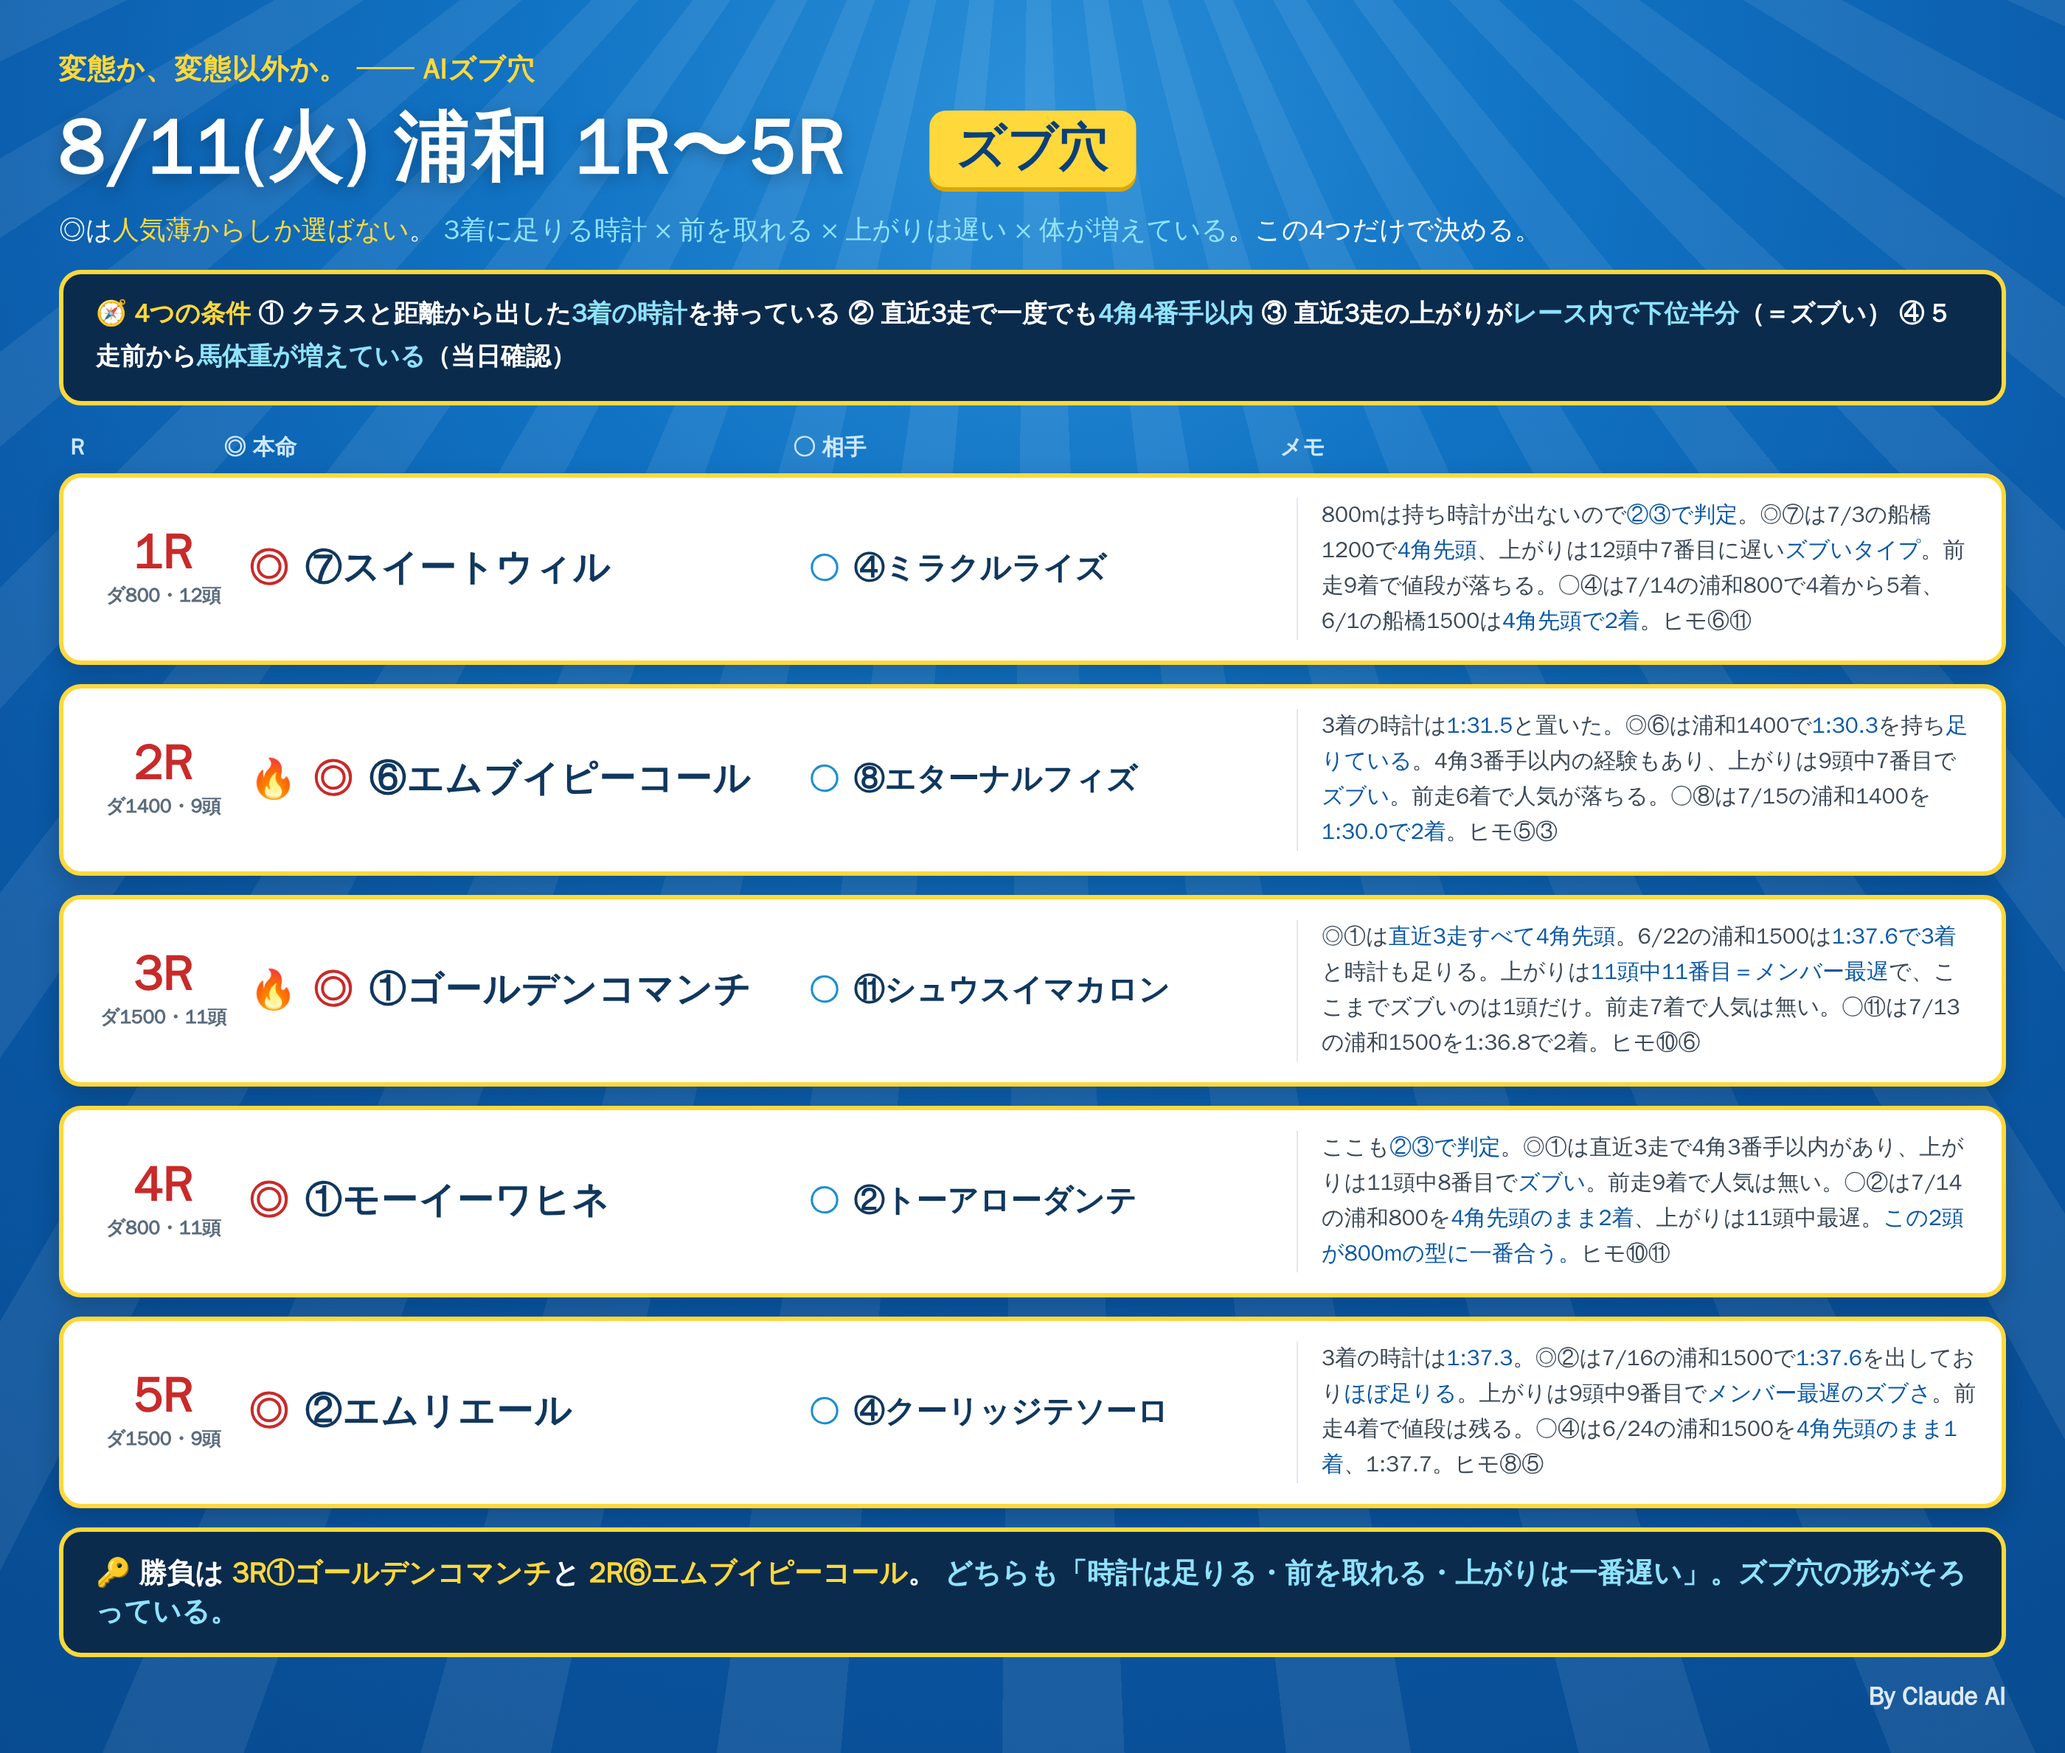
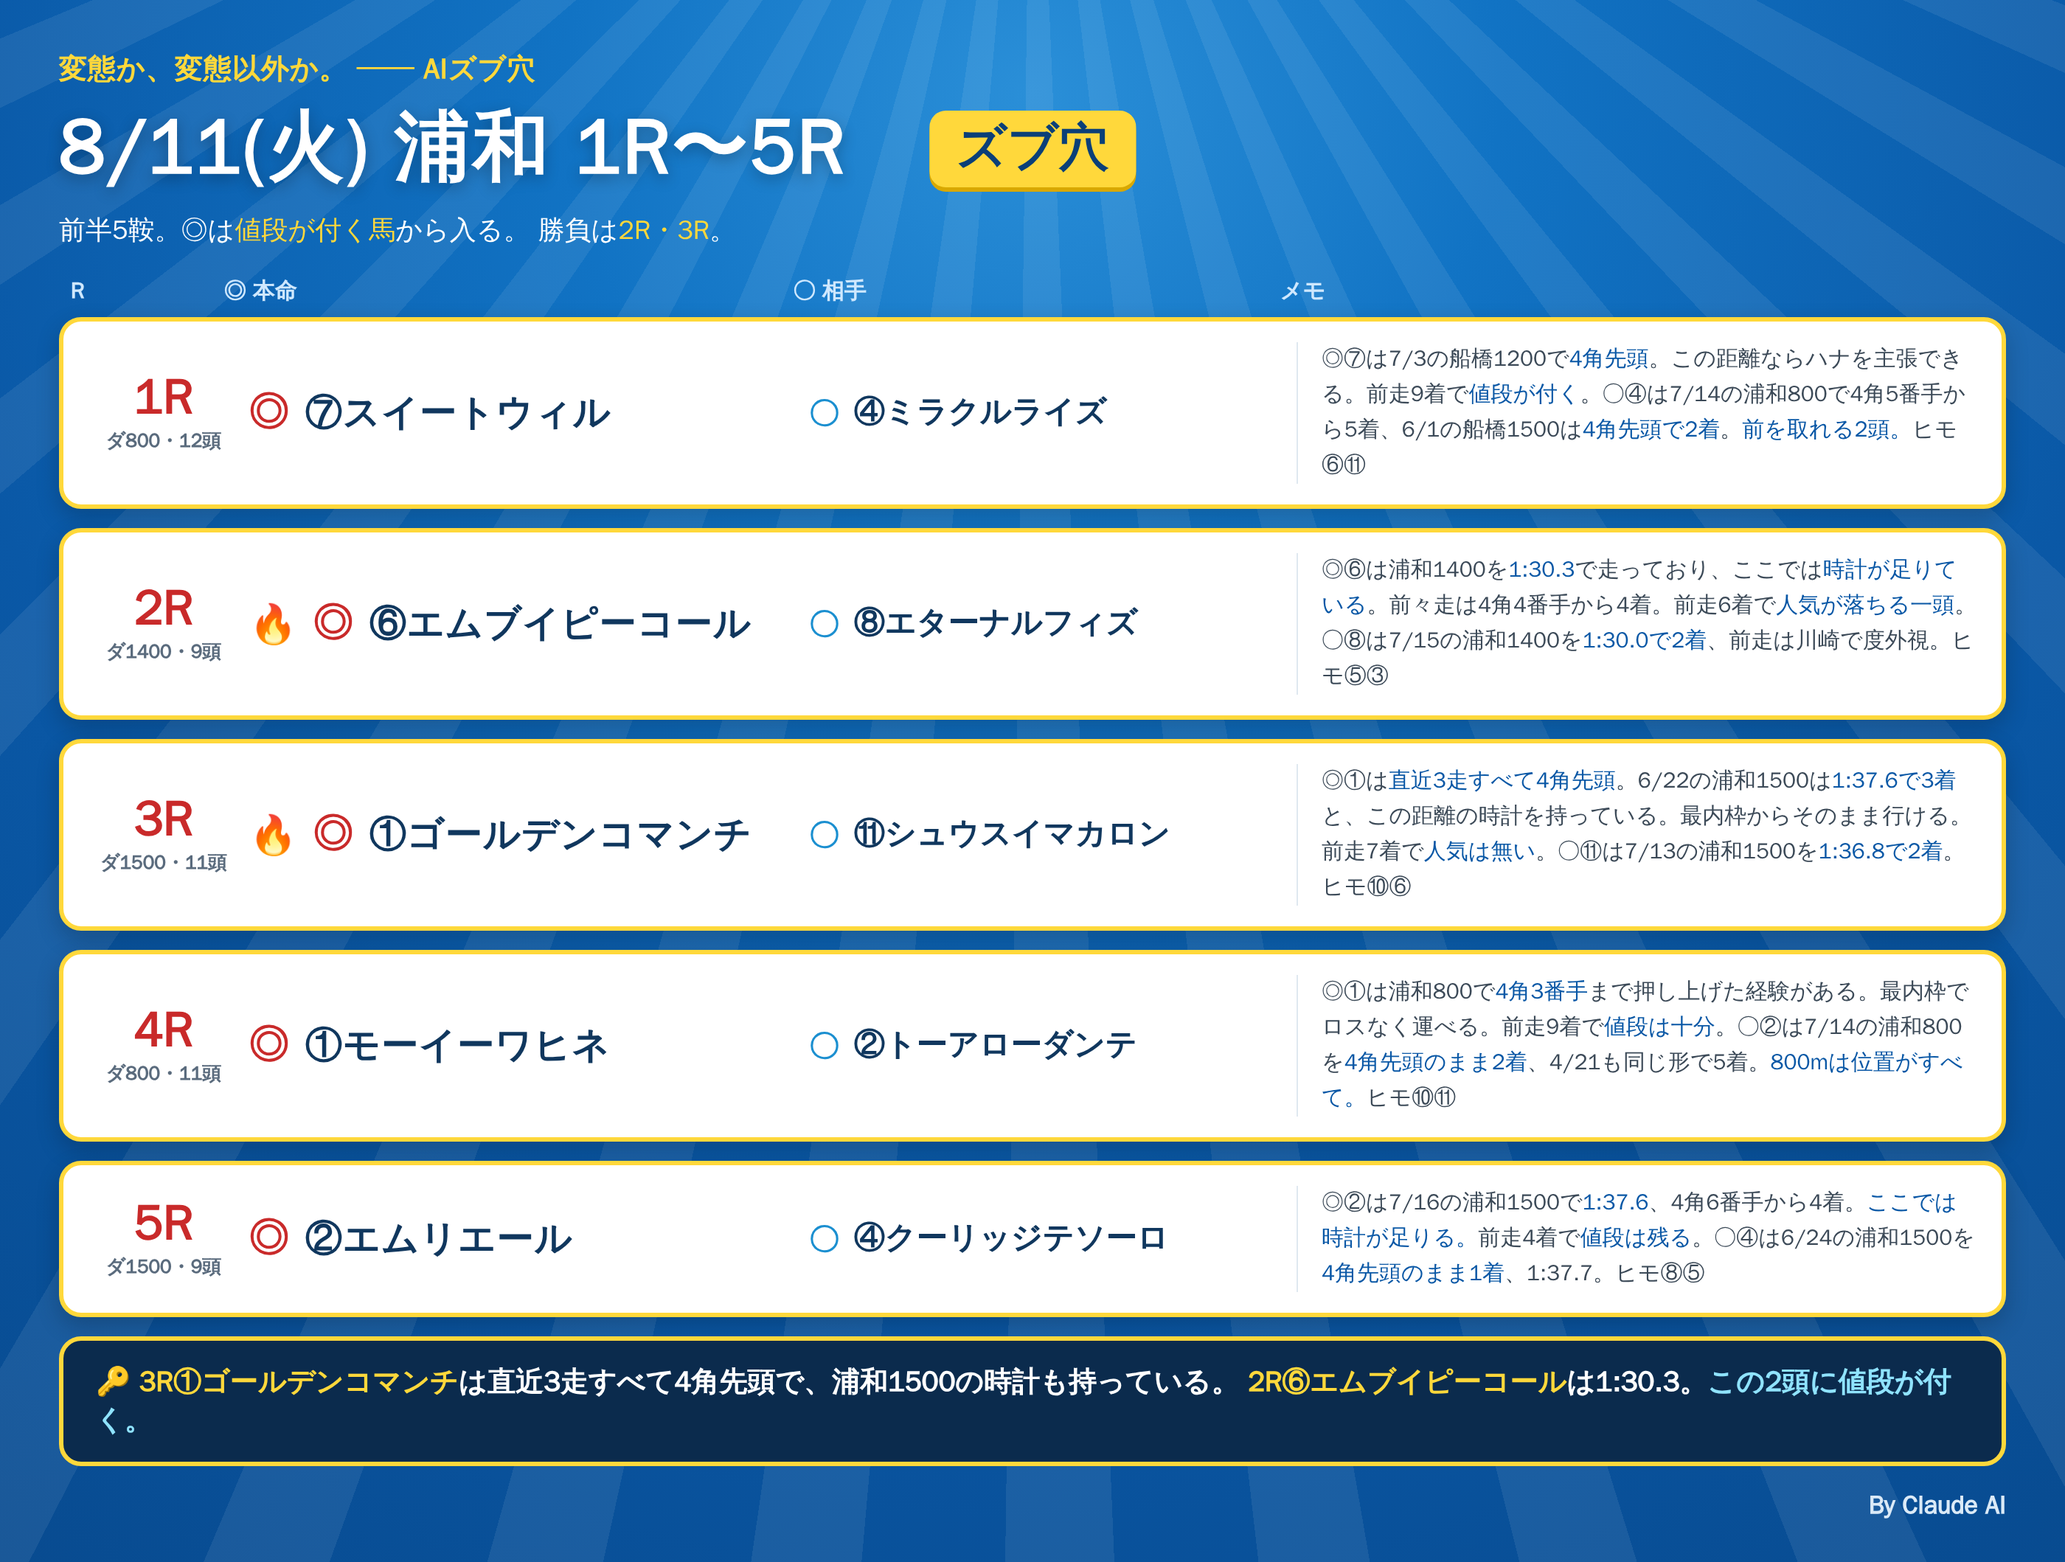
8/11 浦和 1R〜5Rのカードから選定条件の記載を削除
条件の一覧ボックスとメモ内の内部表現を外し、各馬の実績だけで読める
体裁にした。印は変更なし。

Claude-Session: https://claude.ai/code/session_01RoHscZkr96FNaxQWvUqgEw

diff --git a/notes/live/2026-08-11/urawa_1_5.html b/notes/live/2026-08-11/urawa_1_5.html
@@ -34,10 +34,7 @@
   .memo { flex:1; color:#3c4a58; font-size:15px; line-height:1.6; padding-left:16px; border-left:1px solid #dfe8f0; align-self:center; }
   .memo b { color:#0a58a6; } .memo .r { color:#c92a2a; font-weight:900; }
 
-  .rule { margin:14px 0 4px; background:#0b2b4d; border:3px solid #ffd83b; border-radius:15px;
-          padding:14px 22px; color:#fff; font-size:17px; font-weight:800; line-height:1.7; }
-  .rule .y{color:#ffd83b;} .rule .c{color:#8fe3ff;}
-  .foot { margin-top:10px; background:#0b2b4d; border:3px solid #ffd83b; border-radius:15px;
+  .foot { margin-top:6px; background:#0b2b4d; border:3px solid #ffd83b; border-radius:15px;
           padding:15px 22px; color:#fff; font-size:19px; font-weight:800; }
   .foot .y{color:#ffd83b;} .foot .c{color:#8fe3ff;}
   .sig { text-align:right; color:#dbeaf7; font-size:17px; font-weight:800; margin-top:16px; }
@@ -48,14 +45,8 @@
     <div class="title">8/11(火) 浦和 1R〜5R</div>
     <div class="bdg">ズブ穴</div>
   </div>
-  <div class="lead">◎は<span class="y">人気薄からしか選ばない</span>。
-  <span class="c">3着に足りる時計 × 前を取れる × 上がりは遅い × 体が増えている</span>。この4つだけで決める。</div>
-
-  <div class="rule">🧭 <span class="y">4つの条件</span>
-  ① クラスと距離から出した<span class="c">3着の時計</span>を持っている
-  ② 直近3走で一度でも<span class="c">4角4番手以内</span>
-  ③ 直近3走の上がりが<span class="c">レース内で下位半分</span>（＝ズブい）
-  ④ 5走前から<span class="c">馬体重が増えている</span>（当日確認）</div>
+  <div class="lead">前半5鞍。◎は<span class="y">値段が付く馬</span>から入る。
+  勝負は<span class="y">2R・3R</span>。</div>
 
   <div class="cols"><div class="cR">R</div><div class="cH">◎ 本命</div><div class="cA">○ 相手</div><div class="cM">メモ</div></div>
 
@@ -63,39 +54,39 @@
     <div class="rN"><div class="n">1R</div><div class="d">ダ800・12頭</div></div>
     <div class="hm"><span class="mk">◎</span><span class="nm">⑦スイートウィル</span></div>
     <div class="at"><span class="mk2">○</span><span class="nm2">④ミラクルライズ</span></div>
-    <div class="memo">800mは持ち時計が出ないので<b>②③で判定</b>。◎⑦は7/3の船橋1200で<b>4角先頭</b>、上がりは12頭中7番目に遅い<b>ズブいタイプ</b>。前走9着で値段が落ちる。○④は7/14の浦和800で4着から5着、6/1の船橋1500は<b>4角先頭で2着</b>。ヒモ⑥⑪</div>
+    <div class="memo">◎⑦は7/3の船橋1200で<b>4角先頭</b>。この距離ならハナを主張できる。前走9着で<b>値段が付く</b>。○④は7/14の浦和800で4角5番手から5着、6/1の船橋1500は<b>4角先頭で2着</b>。<b>前を取れる2頭。</b>ヒモ⑥⑪</div>
   </div>
 
   <div class="row">
     <div class="rN"><div class="n">2R</div><div class="d">ダ1400・9頭</div></div>
     <div class="hm"><span class="fire">🔥</span><span class="mk">◎</span><span class="nm">⑥エムブイピーコール</span></div>
     <div class="at"><span class="mk2">○</span><span class="nm2">⑧エターナルフィズ</span></div>
-    <div class="memo">3着の時計は<b>1:31.5</b>と置いた。◎⑥は浦和1400で<b>1:30.3</b>を持ち<b>足りている</b>。4角3番手以内の経験もあり、上がりは9頭中7番目で<b>ズブい</b>。前走6着で人気が落ちる。○⑧は7/15の浦和1400を<b>1:30.0で2着</b>。ヒモ⑤③</div>
+    <div class="memo">◎⑥は浦和1400を<b>1:30.3</b>で走っており、ここでは<b>時計が足りている</b>。前々走は4角4番手から4着。前走6着で<b>人気が落ちる一頭</b>。○⑧は7/15の浦和1400を<b>1:30.0で2着</b>、前走は川崎で度外視。ヒモ⑤③</div>
   </div>
 
   <div class="row">
     <div class="rN"><div class="n">3R</div><div class="d">ダ1500・11頭</div></div>
     <div class="hm"><span class="fire">🔥</span><span class="mk">◎</span><span class="nm">①ゴールデンコマンチ</span></div>
     <div class="at"><span class="mk2">○</span><span class="nm2">⑪シュウスイマカロン</span></div>
-    <div class="memo">◎①は<b>直近3走すべて4角先頭</b>。6/22の浦和1500は<b>1:37.6で3着</b>と時計も足りる。上がりは<b>11頭中11番目＝メンバー最遅</b>で、ここまでズブいのは1頭だけ。前走7着で人気は無い。○⑪は7/13の浦和1500を1:36.8で2着。ヒモ⑩⑥</div>
+    <div class="memo">◎①は<b>直近3走すべて4角先頭</b>。6/22の浦和1500は<b>1:37.6で3着</b>と、この距離の時計を持っている。最内枠からそのまま行ける。前走7着で<b>人気は無い</b>。○⑪は7/13の浦和1500を<b>1:36.8で2着</b>。ヒモ⑩⑥</div>
   </div>
 
   <div class="row">
     <div class="rN"><div class="n">4R</div><div class="d">ダ800・11頭</div></div>
     <div class="hm"><span class="mk">◎</span><span class="nm">①モーイーワヒネ</span></div>
     <div class="at"><span class="mk2">○</span><span class="nm2">②トーアローダンテ</span></div>
-    <div class="memo">ここも<b>②③で判定</b>。◎①は直近3走で4角3番手以内があり、上がりは11頭中8番目で<b>ズブい</b>。前走9着で人気は無い。○②は7/14の浦和800を<b>4角先頭のまま2着</b>、上がりは11頭中最遅。<b>この2頭が800mの型に一番合う。</b>ヒモ⑩⑪</div>
+    <div class="memo">◎①は浦和800で<b>4角3番手</b>まで押し上げた経験がある。最内枠でロスなく運べる。前走9着で<b>値段は十分</b>。○②は7/14の浦和800を<b>4角先頭のまま2着</b>、4/21も同じ形で5着。<b>800mは位置がすべて。</b>ヒモ⑩⑪</div>
   </div>
 
   <div class="row">
     <div class="rN"><div class="n">5R</div><div class="d">ダ1500・9頭</div></div>
     <div class="hm"><span class="mk">◎</span><span class="nm">②エムリエール</span></div>
     <div class="at"><span class="mk2">○</span><span class="nm2">④クーリッジテソーロ</span></div>
-    <div class="memo">3着の時計は<b>1:37.3</b>。◎②は7/16の浦和1500で<b>1:37.6</b>を出しており<b>ほぼ足りる</b>。上がりは9頭中9番目で<b>メンバー最遅のズブさ</b>。前走4着で値段は残る。○④は6/24の浦和1500を<b>4角先頭のまま1着</b>、1:37.7。ヒモ⑧⑤</div>
+    <div class="memo">◎②は7/16の浦和1500で<b>1:37.6</b>、4角6番手から4着。<b>ここでは時計が足りる。</b>前走4着で<b>値段は残る</b>。○④は6/24の浦和1500を<b>4角先頭のまま1着</b>、1:37.7。ヒモ⑧⑤</div>
   </div>
 
-  <div class="foot">🔑 勝負は <span class="y">3R①ゴールデンコマンチ</span>と <span class="y">2R⑥エムブイピーコール</span>。
-  <span class="c">どちらも「時計は足りる・前を取れる・上がりは一番遅い」。ズブ穴の形がそろっている。</span></div>
+  <div class="foot">🔑 <span class="y">3R①ゴールデンコマンチ</span>は直近3走すべて4角先頭で、浦和1500の時計も持っている。
+  <span class="y">2R⑥エムブイピーコール</span>は1:30.3。<span class="c">この2頭に値段が付く。</span></div>
   <div class="sig">By Claude AI</div>
 </div></div>
 </body></html>
